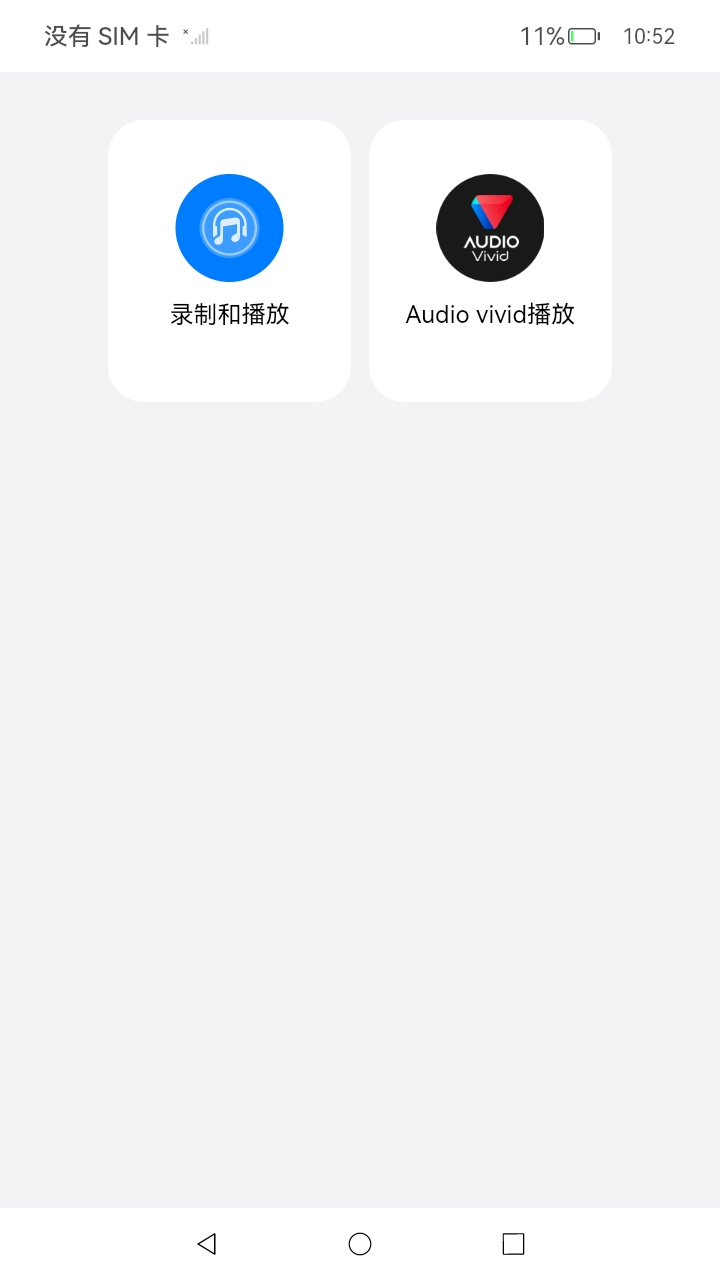
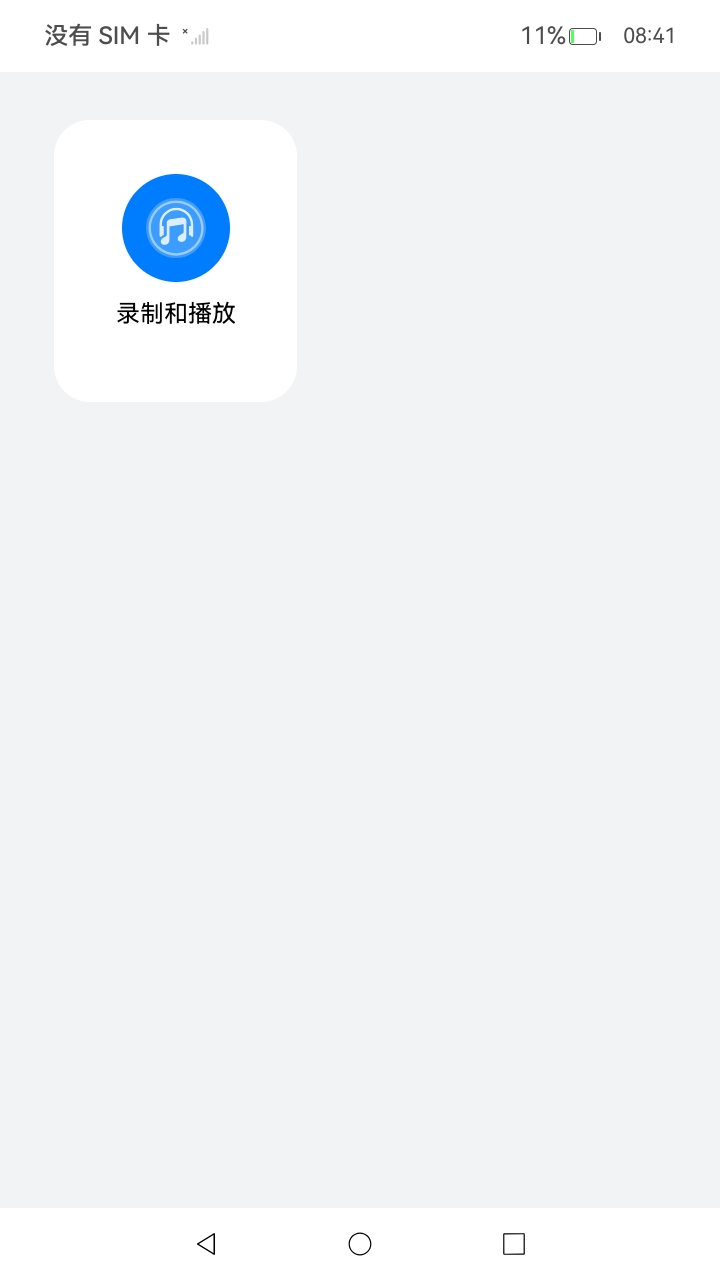
屏蔽audiovivid功能

diff --git a/code/DocsSample/Media/Audio/OHAudio/README.md b/code/DocsSample/Media/Audio/OHAudio/README.md
@@ -2,10 +2,10 @@
 
 ### 介绍
 
-本示例主要展示了音频低时延录制和播放，AudioVivid音乐播放的相关功能：<br>
+本示例主要展示了音频低时延录制和播放的相关功能：<br>
     1. [低时延录制](https://gitee.com/openharmony/docs/blob/OpenHarmony-4.0-Release/zh-cn/application-dev/media/using-ohaudio-for-recording.md)。<br>
     2. [低时延播放](https://gitee.com/openharmony/docs/blob/OpenHarmony-4.0-Release/zh-cn/application-dev/media/using-ohaudio-for-playback.md)。<br>
-    3. [AudioVivid播放](https://gitee.com/openharmony/docs/blob/master/zh-cn/application-dev/media/audio/using-ohaudio-for-playback.md).
+    <!-- 3. [AudioVivid播放](https://gitee.com/openharmony/docs/blob/master/zh-cn/application-dev/media/audio/using-ohaudio-for-playback.md). -->
 
 ### 效果预览
 
@@ -13,7 +13,7 @@
 |------------------------------------------|-------------------------------------------------------|
 | ![Index](screenshots/device/index.jpg)   | ![PreferOutputDevice](screenshots/device/record.jpeg) |
 | 播放页面                                     | AudioVivid播放页|
-| ![Focus](screenshots/device/play.jpeg) |![AudioVivid](screenshots/device/AudioVivid.jpg)|
+| ![Focus](screenshots/device/play.jpeg) |<!-- ![AudioVivid](screenshots/device/AudioVivid.jpg) -->|
 
 使用说明
 
@@ -24,12 +24,12 @@
 5. 点击继续按钮，继续录制，录音时间继续计时
 6. 停止录制后，会生成录制结果，界面上有一个低时延播放开关和录制成功的音频播放器，点击低时延播放开关可打开低时延播放功能，点击播放可听到录制的音频，播放未结束之前低时延播放开关为不可点击状态
 7. 点击返回按按钮回到主页
-8. 点击AudioVivid播放卡片进入页面
-9. 点击普通播放按钮，播放普通格式音乐
-10. 点击普通暂停按钮，暂停普通格式音乐
-11. 点击AudioVivid播放按钮，播放AudioVivid格式音乐
-12. 点击AudioVivid暂停按钮，暂停AudioVivid格式音乐
-13. 点击返回按按钮回到主页
+<!-- 8. 点击AudioVivid播放卡片进入页面 -->
+<!-- 9. 点击普通播放按钮，播放普通格式音乐 -->
+<!-- 10. 点击普通暂停按钮，暂停普通格式音乐 -->
+<!-- 11. 点击AudioVivid播放按钮，播放AudioVivid格式音乐 -->
+<!-- 12. 点击AudioVivid暂停按钮，暂停AudioVivid格式音乐 -->
+<!-- 13. 点击返回按按钮回到主页 -->
 
 ### 工程目录
 
@@ -49,7 +49,7 @@ entry/src/main/
 |   |   |---pages
 |   |   |   |---Index.ets                          // 首页
 |   |   |   |---AudioRecording.ets                 // 录制和播放页面
-|   |   |   |---AudioVividPlayback.ets                 // AudioVivid播放页面
+|   |   |   |---AudioVividPlayback.ets                 // AudioVivid播放页面，功能暂不支持
 |   |---resources                                  // 静态资源
 |---ohosTest               
 |   |---ets
@@ -63,7 +63,7 @@ entry/src/main/
     * [低时延播放开发指导文档](https://gitee.com/openharmony/docs/blob/OpenHarmony-4.0-Release/zh-cn/application-dev/media/using-ohaudio-for-playback.md)
     * [低时延录制开发示例](https://gitee.com/openharmony/multimedia_audio_framework/blob/OpenHarmony-4.0-Release/frameworks/native/ohaudio/test/example/oh_audio_capturer_test.cpp)
     * [低时延播放开发示例](https://gitee.com/openharmony/multimedia_audio_framework/blob/OpenHarmony-4.0-Release/frameworks/native/ohaudio/test/example/oh_audio_renderer_test.cpp)
-    * [AudioVivid播放开发示例](https://gitee.com/openharmony/docs/blob/master/zh-cn/application-dev/media/audio/using-ohaudio-for-playback.md)
+    <!-- * [AudioVivid播放开发示例](https://gitee.com/openharmony/docs/blob/master/zh-cn/application-dev/media/audio/using-ohaudio-for-playback.md) -->
 
 ### 相关权限
 
